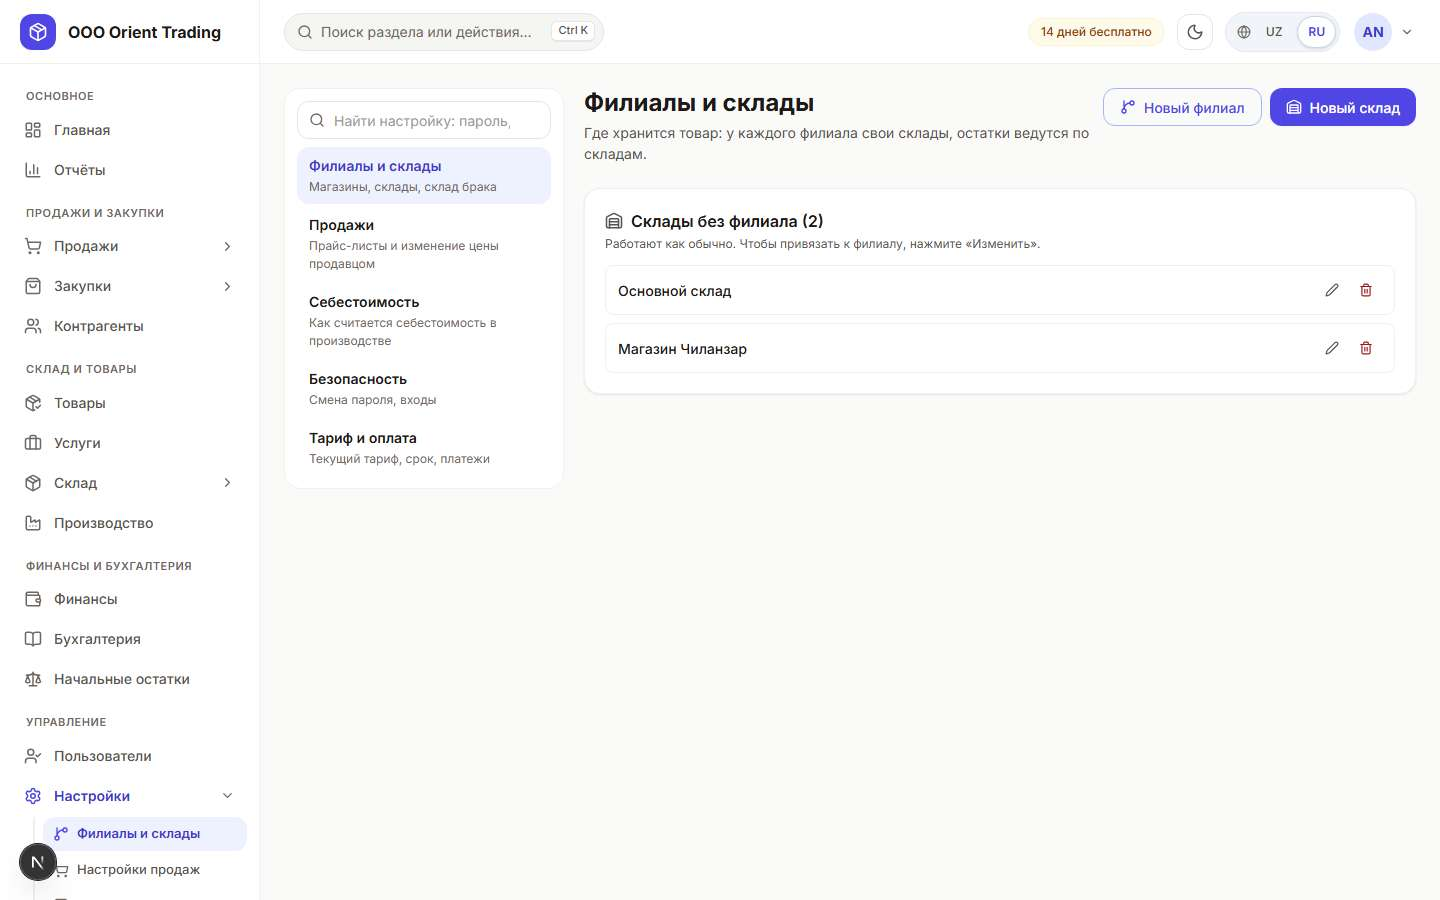
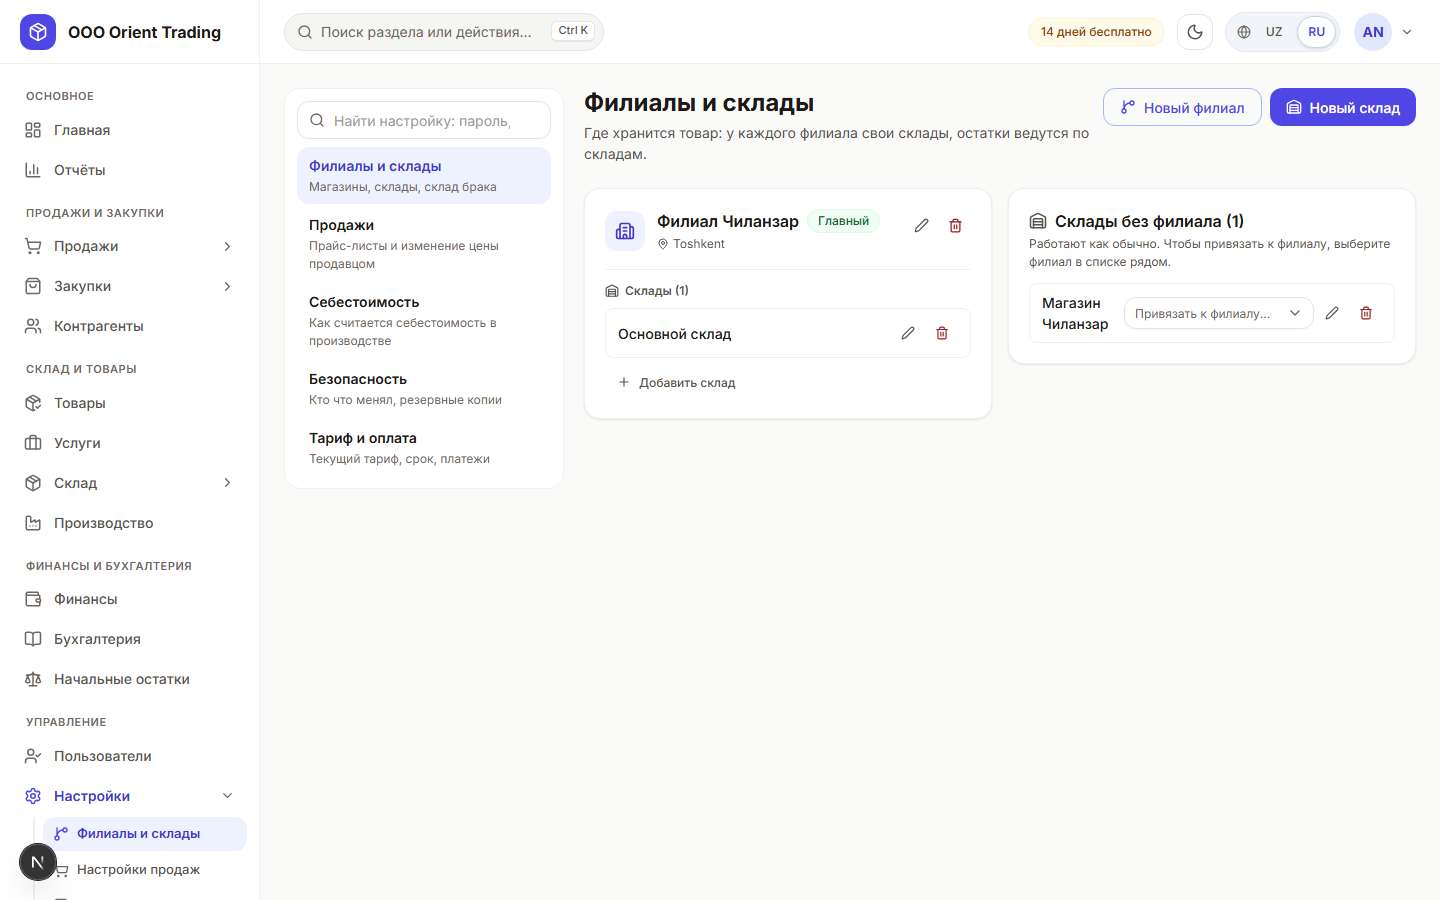
feat(ux): branches — attach a warehouse to a branch in one step from the unattached list
- Each warehouse without a branch gets an inline "Attach to branch…"
  choice; it sends the same PATCH the edit dialog sends when only the
  branch changes, then shows "«Main warehouse» → Chilonzor branch".
- With no branch yet, the card says to create one first and offers the
  New branch button right there.
- e2e/ux/rd-attach.mjs walks the flow (creates a demo branch in the
  local DB if none).

Changed region(s): [[0.4062, 0.2178, 0.9688, 0.3733], [0.4062, 0.3111, 0.5312, 0.4356], [0.2188, 0.4356, 0.3438, 0.4667]]

diff --git a/frontend/src/app/[locale]/(dashboard)/settings/branches/page.tsx b/frontend/src/app/[locale]/(dashboard)/settings/branches/page.tsx
@@ -2,7 +2,7 @@
 
 import { useState } from 'react';
 import { useAuth } from '@/context/AuthContext';
-import { useLocale } from 'next-intl';
+import { useLocale, useTranslations } from 'next-intl';
 import { apiFetch } from '@/lib/api';
 import { useApiQuery } from '@/lib/query/useApiQuery';
 import { LoadError } from '@/components/ui/LoadError';
@@ -255,6 +255,31 @@ export default function BranchesPage() {
     }
   };
 
+  // Attach a warehouse to a branch in one step: the same PATCH the edit dialog sends when only the branch changes.
+  const tbr = useTranslations('rd.branches');
+  const [attachingId, setAttachingId] = useState<string | null>(null);
+  const attachWarehouse = async (wh: WarehouseRow, branchId: string) => {
+    if (!token || !company) return;
+    setAttachingId(wh.id);
+    try {
+      const uz = typeof wh.name === 'object' ? wh.name.uz || '' : wh.name || '';
+      const ru = typeof wh.name === 'object' ? wh.name.ru || '' : wh.name || '';
+      await apiFetch(`/tenants/warehouses/${wh.id}`, {
+        method: 'PATCH',
+        token,
+        tenantId: company.id,
+        locale,
+        body: JSON.stringify({ branchId, name: { uz, ru: ru || uz }, address: wh.address || '', phone: wh.phone || '' }),
+      });
+      fetchBranches();
+      toast.success(tbr('attached', { name: nameOf(wh.name), branch: nameOf(branches.find((b) => b.id === branchId)?.name ?? '') }));
+    } catch (err) {
+      toast.error(errorMessage(err) || (isRu ? 'Не удалось сохранить склад' : 'Omborni saqlab bo‘lmadi'));
+    } finally {
+      setAttachingId(null);
+    }
+  };
+
   const handleDeleteWarehouse = async (wh: WarehouseRow) => {
     if (!token || !company) return;
     const ok = await confirm({
@@ -354,7 +379,22 @@ export default function BranchesPage() {
                 </div>
               )}
             </div>
-            <div style={{ display: 'flex', gap: 2, flexShrink: 0 }}>
+            <div style={{ display: 'flex', gap: 2, flexShrink: 0, alignItems: 'center' }}>
+              {!wh.branchId && branches.length > 0 && (
+                <>
+                  <label htmlFor={`attach-${wh.id}`} className="sr-only">{tbr('attachTo', { name: wName })}</label>
+                  <Select
+                    id={`attach-${wh.id}`}
+                    size="sm"
+                    value=""
+                    placeholder={tbr('attach')}
+                    disabled={attachingId === wh.id}
+                    onChange={(v) => v && void attachWarehouse(wh, v)}
+                    options={branches.map((b) => ({ value: b.id, label: nameOf(b.name) }))}
+                    style={{ width: 190 }}
+                  />
+                </>
+              )}
               <button type="button" style={iconBtn()} onClick={() => handleOpenEditWarehouse(wh)} aria-label={isRu ? `Изменить склад «${wName}»` : `«${wName}» omborini tahrirlash`} title={isRu ? 'Изменить' : 'Tahrirlash'}>
                 <Edit2 size={14} aria-hidden />
               </button>
@@ -472,9 +512,16 @@ export default function BranchesPage() {
                   {isRu ? 'Склады без филиала' : 'Filialga biriktirilmagan omborlar'} ({unassigned.length})
                 </h2>
                 <p style={{ fontSize: 'var(--text-xs)', color: 'var(--color-text-secondary)', marginTop: 2 }}>
-                  {isRu ? 'Работают как обычно. Чтобы привязать к филиалу, нажмите «Изменить».' : 'Odatdagidek ishlaydi. Filialga biriktirish uchun «Tahrirlash»ni bosing.'}
+                  {branches.length ? tbr('attachHint') : tbr('noBranchHint')}
                 </p>
               </div>
+              {branches.length === 0 && (
+                <div>
+                  <Button size="sm" onClick={() => setBranchModalOpen(true)}>
+                    <Plus size={14} aria-hidden /> {isRu ? 'Новый филиал' : 'Yangi filial'}
+                  </Button>
+                </div>
+              )}
               {warehouseList(unassigned)}
             </Card>
           )}

diff --git a/frontend/src/app/globals.css b/frontend/src/app/globals.css
@@ -1423,3 +1423,5 @@ button.rd-signal:hover { border-color: var(--rd-tone, var(--color-border)); back
 @media (max-width: 900px) { .tk-inbox { grid-template-columns: minmax(0, 1fr); } }
 
 .ann-preview { display: flex; flex-direction: column; gap: 4px; padding: var(--space-3); border: 1px dashed var(--color-border); border-radius: var(--radius-md); background: var(--color-bg-tertiary); font-size: var(--text-sm); }
+
+.br-attach { height: 32px; padding: 0 8px; border: 1px solid var(--color-border); border-radius: var(--radius-md); background: var(--color-bg-input); color: var(--color-text-primary); font: inherit; font-size: var(--text-xs); max-width: 180px; }
